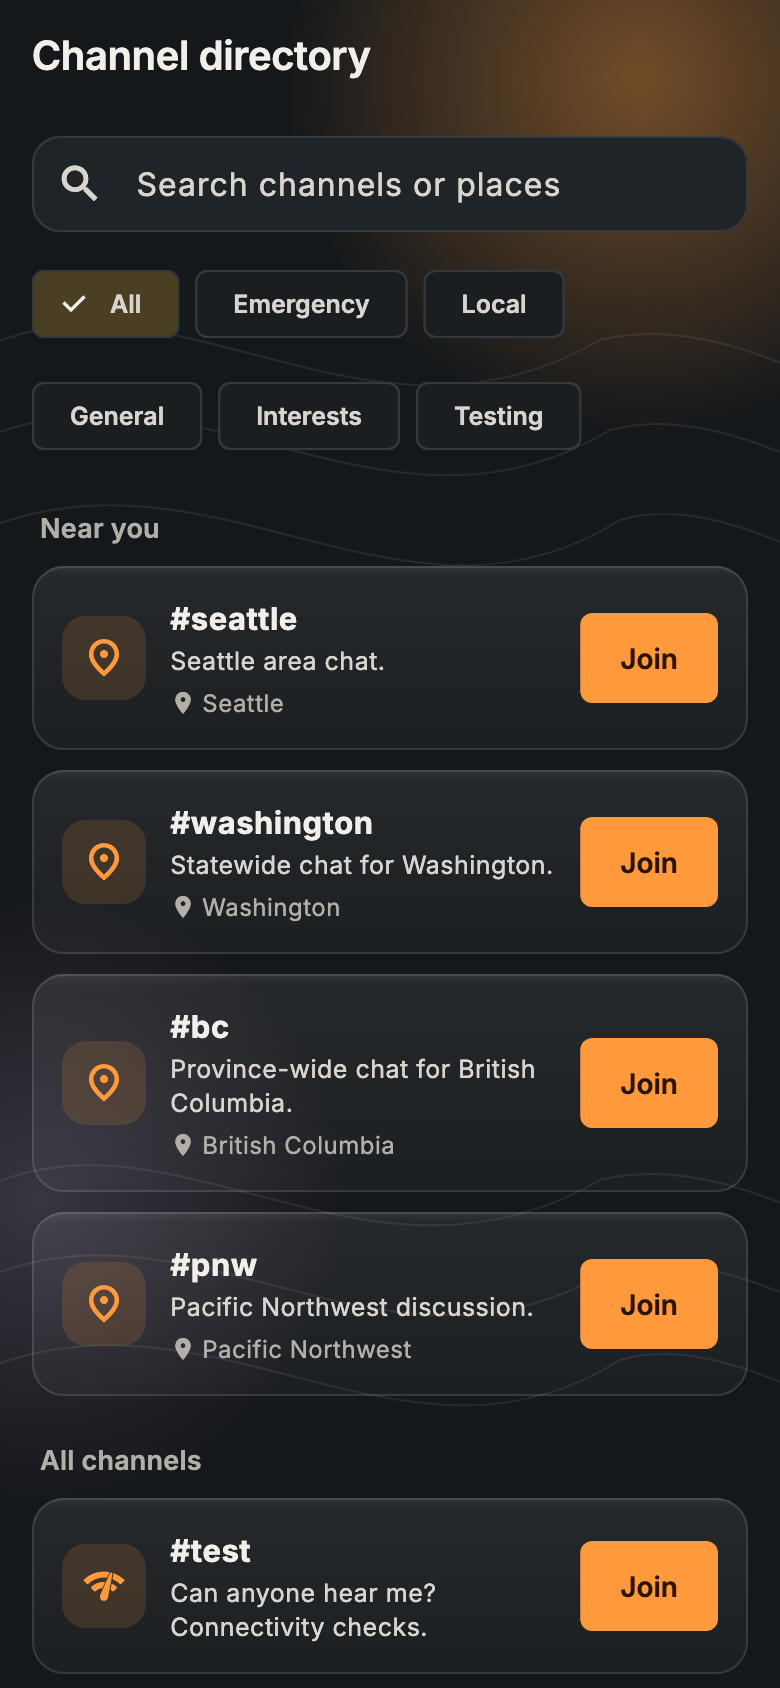
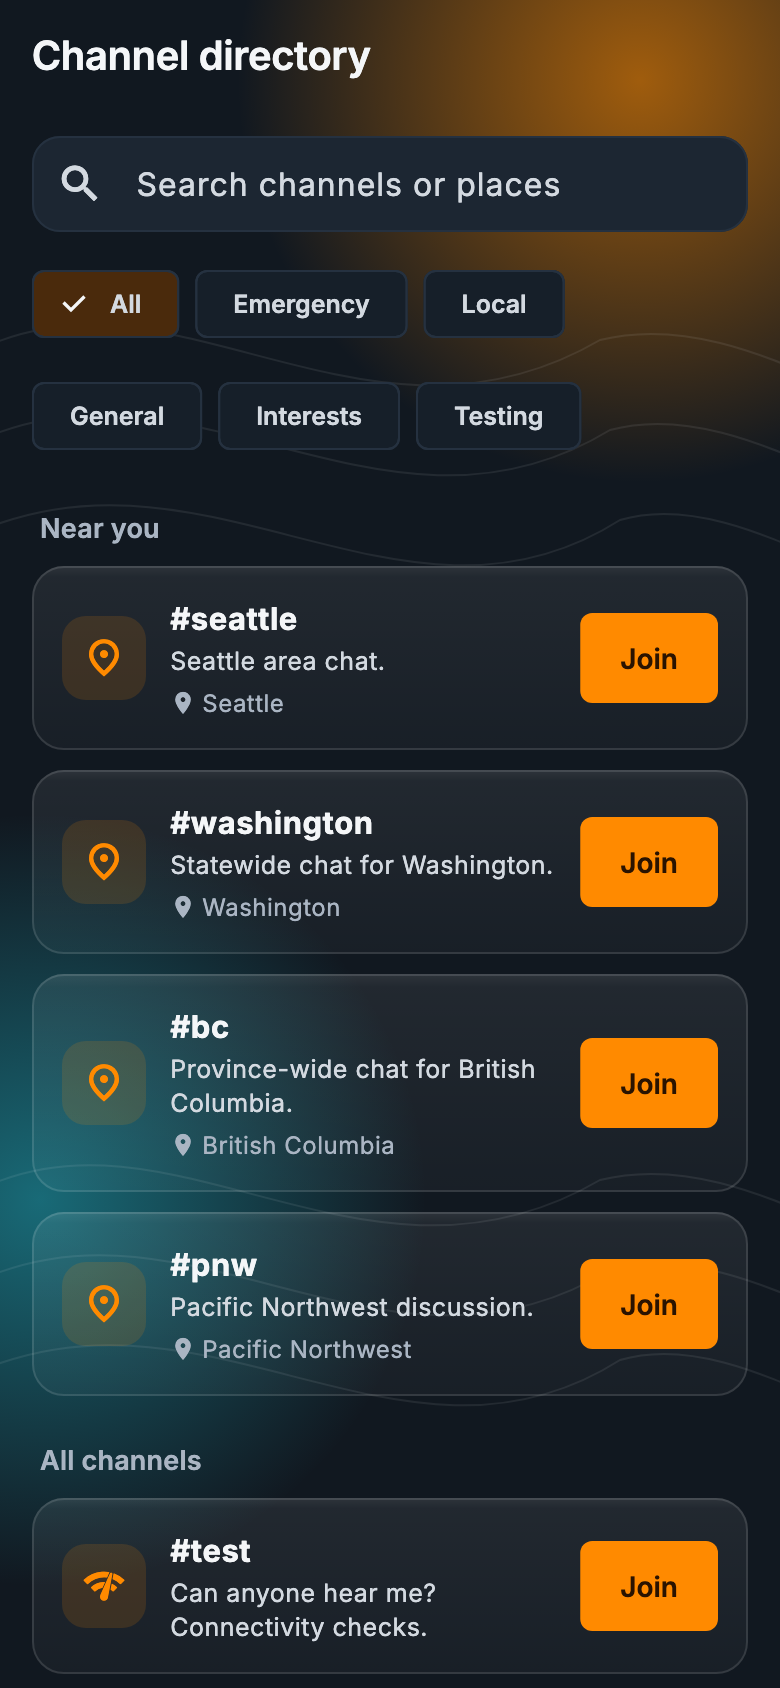
Bring the downloads page up to date (10.0.0 / 10.1.0-rc.5) (#13)
* Bring the downloads page up to date with 10.0.0 and 10.1.0-rc.5

Point the test build at rc.5, add features shipped since rc.3, list
the eight current themes and the Lite APK, and refresh the screenshots
from the app's preview test.

* Add phone captures of four newer screens

* Point the test build at 10.1.0-rc.6

---------

diff --git a/README.md b/README.md
@@ -14,7 +14,7 @@ This repository hosts NOTORYX Core builds for Android and Mac. Get the latest fr
 
 New since rc.47: **multiple radios**, **notifications for each channel** (all, mentions only or muted), an **airtime estimate** while you type, **KML and GeoJSON import**, a **firmware update guide**, and lower CPU use over USB on Mac. Not yet tested on real radios or phones.
 
-**Test build:** [10.1.0-rc.3](../../releases/tag/v10.1.0-rc.3) marks **failed sends in the Nodes list** with a fix one tap away, keeps the radio connected when you press **Back** on Home, learns better routes, and **resumes an SOS** after a restart. It includes everything in [10.1.0-rc.2](../../releases/tag/v10.1.0-rc.2) and [10.1.0-rc.1](../../releases/tag/v10.1.0-rc.1) (safer outbox, radio features in Diagnostics, offline map check, identity key backup and more). Untested on radios; 10.0.0 stays the one to use.
+**Test build: [10.1.0-rc.6](../../releases/tag/v10.1.0-rc.6)** (15 November 2026, build 107) lists each nearby repeater once in "Best repeaters near you" and on the routes screen. With rc.1 to rc.5, it adds a **compass that points to any node**, a **photo or color for any node**, your own **background** behind the glass panels (color, gradient, color blend or photo), and the **Fresnel zone** on line of sight. It also marks **failed sends in the Nodes list** with a fix one tap away, keeps chats open while a dropped radio link reconnects, puts every coverage tool in **Map + coverage**, **resumes an SOS** after a restart, and adds identity key backup, a map-as-a-list view for screen readers and a safer offline queue (from rc.1 to rc.5). The rc.4 features were checked on one phone with one radio; the build as a whole is not yet tested on radios, so 10.0.0 stays the one to rely on.
 
 **Report a problem:** [open an issue](../../issues).
 
@@ -36,7 +36,8 @@ NOTORYX Core turns your phone or Mac and a [MeshCore](https://meshcore.io/) radi
 - **It helps you find people.** A directory of public channels, channels heard on air that you haven't joined, and the #channels active online right now, each one tap to join.
 - **It reaches past the horizon.** The optional MQTT bridge shows MeshCore traffic from beyond radio range, clearly labeled **via MQTT** so it never pretends to be a radio repeat.
 - **It shows you where the mesh reaches.** Wardrive maps which repeaters hear you as you drive or hike, and telemetry badges put battery, temperature, humidity and pressure right on the map.
-- **It looks the part.** The Frosted ember look puts see-through glass over a warm glow. Five themes, including Autumn Frost, Red light to keep your night vision and a color-blind safe Okabe-Ito theme, all checked for readable contrast.
+- **It looks the part.** The Frosted ember look puts see-through glass over a warm glow, or over your own color, gradient or photo. Eight themes, including Night Ops to keep your night vision, a Seasonal theme and a color-blind safe Okabe-Ito theme, all checked for readable contrast.
+- **It runs more than one radio.** Stay connected to a handheld and a base station at once and switch between them.
 - **It speaks your language.** 18 languages.
 - **It runs your whole kit.** Repeaters, room servers, sensors, access control, a command line and Wi-Fi setup are all in one app.
 - **It's free and open source** (MIT), and built on the community [MeshCore Open](https://github.com/zjs81/meshcore-open) project.
@@ -52,6 +53,11 @@ NOTORYX Core turns your phone or Mac and a [MeshCore](https://meshcore.io/) radi
 - **SOS relay** (optional, off by default): when your radio hears an SOS straight from the sender and no repeater passes it on, NOTORYX sends it once more so it can reach a repeater the sender can't. Needs radio firmware v1.16 or newer, and is not yet field-tested on radios.
 - **Plan your trip:** choose up to six contacts. Trip briefs, a **Field Log** of everything sent and received, readiness checks and optional automations.
 - **Home:** radio battery, signal and node count at a glance, your radio's own **sensors** (voltage, temperatures, GPS, light), check-in, SOS and field tools.
+- **Trip readiness:** a **Ready** card before you leave says what's left to fix, such as offline maps or SOS contacts.
+- **SALUTE and 9-Line reports** from the SOS panel and the check-in card, with your position and the time filled in.
+- **Team tracking** on a private channel during a trip, **Day replay** of where everyone went, and **zone and off-trail alerts**.
+- **Checklists** that work offline, with timestamped records you can export.
+- **SOS on the lock screen** when app lock is on, and an SOS keeps going after the app restarts.
 - **Android home-screen widget:** radio status, battery and unread count, with one-tap Check in and SOS.
 
 ### Messaging
@@ -64,6 +70,11 @@ NOTORYX Core turns your phone or Mac and a [MeshCore](https://meshcore.io/) radi
 - **Delivery details:** long-press a message you sent to see why it did or didn't get through: a plain-words verdict over a timeline of attempts, route and confirmation, with Retry.
 - **Stop retrying** a direct message that's still being sent, and a note in a new chat that the other person has to add you as a contact before they can read and answer.
 - **Drafts** kept for each chat.
+- **Reply to a message** (shown as a quote), **@mentions** with suggestions, and **block** a sender on a channel.
+- **Reply from the notification**, **forward** a message, and **schedule** one up to 30 days ahead.
+- **Offline queue:** messages written while disconnected go out when your radio reconnects.
+- **Not delivered** on a node's row when your last message didn't get through, with a fix one tap away.
+- **Airtime estimate** while you type, and **per-channel notifications** (all, mentions only or muted).
 - **Share your position or a contact** from the message box. Received contacts can be added in one tap, tapping a `meshcore://` contact link in another app opens it in NOTORYX Core, and **Add contact from clipboard** accepts links, adverts (even wrapped across lines) and bare public keys.
 - **Discovered contacts:** add one with a tap, or long-press to pick several (or **Add all shown**) and add them together, up to the room left on your radio.
 - **Region tags:** a channel post scoped to a region shows it next to the time, for example **📍 ct**.
@@ -85,6 +96,13 @@ NOTORYX Core turns your phone or Mac and a [MeshCore](https://meshcore.io/) radi
 - **Antenna coverage:** see where an antenna at a chosen height could reach over the terrain.
 - **Line-of-sight checks** between two points.
 - **Coverage capture sessions** you can record, review and export.
+- **Line of sight with the Fresnel zone** shaded, so you can see when a path is clear of the ground but still too close to it.
+- **Waypoints and routes:** save places, import GPX, KML or GeoJSON, and see them on the map. **Offline trail routing and place search** from OpenStreetMap data you download.
+- **Compass to any node** ("Point me to it") from the map, the Nodes list and the path tools.
+- **Node journal**, a **Timeline** of messages, new nodes, signal and places, a **network** view of the path graph, **route view** with the signal on each link, and shareable **trace cards**.
+- **Mesh health** grade, route warnings, and alerts when a favorite repeater goes quiet or a new one appears.
+- Coordinates as decimal degrees, DMS, MGRS, UTM or Maidenhead.
+- **Map as a list** for screen readers, and **Favorites only** on the map.
 - **Field stats:** live mesh counts and contact activity.
 
 ### MQTT bridge (optional)
@@ -95,6 +113,7 @@ NOTORYX Core turns your phone or Mac and a [MeshCore](https://meshcore.io/) radi
 - Reconnects on its own when your network comes back.
 
 ### Your radios
+- **Several radios at once:** each keeps its own messages, queue and unread count, and each reconnects at launch.
 - Connect over **Bluetooth, USB or TCP/IP**. Turn on **Connect to my radio automatically** to reconnect to your last radio when the app opens. A dropped link reconnects on its own on every transport.
 - **Connections dashboard:** radio and MQTT status side by side, device and firmware details, and a clear prompt when Bluetooth is off.
 - Radio overview with battery, firmware and LoRa settings, live radio stats and a noise-floor chart.
@@ -108,19 +127,25 @@ NOTORYX Core turns your phone or Mac and a [MeshCore](https://meshcore.io/) radi
 - **Diagnostics:** every radio metric, channel, GPS fix and storage figure in one place; tap a value to copy it.
 - **Command line and Wi-Fi setup** for your own radio. With permission, you can also use a trusted contact's command line.
 - **Favorites back in range:** a notification when a favorite is heard again after a quiet spell (6 hours by default).
+- **Nearby repeater test**, **battery watch** (30 days of each repeater's voltage, with a trend and timed checks), **identity key backup**, a **firmware update guide** (the app never flashes firmware itself) and a list of which features your radio supports.
+- **Automation rules:** triggers like low battery, a time of day, an area, a node going quiet or a message arriving, combined with AND or OR, that post a notification, send a message or call an opt-in webhook.
 - **Field tools:** repeater ping (signal both ways), antenna hunt (clicks faster as a repeater gets louder), Repeater IDs, Region setup (US and Canada region trees) and a field guide.
 - Join a community by scanning its QR code.
 
-### Backups and everyday comfort
-- **Encrypted backup** of settings, contacts and keys, with optional chat history.
+### Privacy, backups and everyday comfort
+- **App lock** with fingerprint, face or screen lock, and optional **encrypted storage** for history, contacts, channel keys, waypoints and drafts.
+- **Encrypted backup and restore** of settings, contacts and keys, with your message history (merged on restore). A restore is all or nothing.
+- **Team setup:** share radio settings, channels, waypoints and routes by QR code or file, passphrase-encrypted.
+- **Community moderation** (off by default): report spam to human moderators.
 - **Battery saver**, adjustable refresh rate and app-icon shortcuts.
-- **Five themes:** Blaze (default), Autumn Frost (slate, pine and amber), Bubble Gum (rose and hot pink), Red light (keeps your night vision) and Okabe-Ito (color-blind safe, on black), all checked for readable contrast.
+- **Eight themes:** Blaze (default), Neon Anarchy, Tactical, Pink Overload, Bare Beauty, Okabe-Ito (color-blind safe), Night Ops (low light) and Seasonal, all meeting WCAG AA contrast. An optional second theme for dark mode, and your own **background** (color, gradient, color blend or photo).
+- **Node looks:** give any node a color or photo.
 - **Color-blind safe colors:** node types on the map and in lists (people, repeaters, rooms and sensors) use the [Okabe-Ito palette](https://jfly.uni-koeln.de/color/), whose colors stay distinct with the common forms of color blindness. The **Okabe-Ito** theme goes further: good, warning and bad signal are blue-green, yellow and vermillion instead of green and red.
 
   | Orange | Sky blue | Bluish green | Yellow | Blue | Vermillion | Reddish purple | Black |
   |---|---|---|---|---|---|---|---|
   | `#E69F00` | `#56B4E9` | `#009E73` | `#F0E442` | `#0072B2` | `#D55E00` | `#CC79A7` | `#000000` |
-- Available in **18 languages**. A few screens (parts of bot settings and the local mesh settings banner) are still in English only.
+- Available in **18 languages**.
 
 <p align="center">
   <img src="images/routes.png" width="190" alt="Route Intelligence with the best repeaters near you">
@@ -135,24 +160,38 @@ NOTORYX Core turns your phone or Mac and a [MeshCore](https://meshcore.io/) radi
 </p>
 
 <p align="center">
-  <img src="images/home.png" width="150" alt="Blaze theme">
-  <img src="images/home_autumn_frost.png" width="150" alt="Autumn Frost theme">
-  <img src="images/home_bubble_gum.png" width="150" alt="Bubble Gum theme">
-  <img src="images/home_red_light.png" width="150" alt="Red light theme">
-  <img src="images/home_okabe_ito.png" width="150" alt="Okabe-Ito color-blind safe theme">
+  <img src="images/background.png" width="190" alt="Background: theme glow, color, gradient, color blend or your own photo behind the glass">
+  <img src="images/theme_settings.png" width="190" alt="Theme settings with a different theme in dark mode">
+  <img src="images/checklist_run.png" width="190" alt="Before a trip checklist">
+  <img src="images/firmware_guide.png" width="190" alt="Guided firmware update">
 </p>
-<p align="center"><em>Blaze · Autumn Frost · Bubble Gum · Red light · Okabe-Ito</em></p>
+<p align="center"><em>Captured on a phone running 10.1.0-rc.5 with the Night Ops theme.</em></p>
 
-> NOTORYX Core is a pre-release. It's tested in automated tests and a mesh simulator but not yet on a wide range of phones and radios. It is not a replacement for an emergency service or a satellite messenger.
+<p align="center">
+  <img src="images/home.png" width="150" alt="Blaze theme">
+  <img src="images/home_neon_anarchy.png" width="150" alt="Neon Anarchy theme">
+  <img src="images/home_tactical.png" width="150" alt="Tactical theme">
+  <img src="images/home_pink_overload.png" width="150" alt="Pink Overload theme">
+</p>
+<p align="center">
+  <img src="images/home_bare_beauty.png" width="150" alt="Bare Beauty theme">
+  <img src="images/home_okabe_ito.png" width="150" alt="Okabe-Ito color-blind safe theme">
+  <img src="images/home_night_ops.png" width="150" alt="Night Ops low-light theme">
+  <img src="images/home_seasonal.png" width="150" alt="Seasonal theme in autumn">
+</p>
+<p align="center"><em>Blaze · Neon Anarchy · Tactical · Pink Overload · Bare Beauty · Okabe-Ito · Night Ops · Seasonal</em></p>
+
+> NOTORYX Core 10.0.0 is the first stable release. It's tested in automated tests and a mesh simulator but not yet on a wide range of phones and radios. It is not a replacement for an emergency service or a satellite messenger.
 
 ## Which file do I need?
 
 | Platform | File | Notes |
 |---|---|---|
 | Android (ARM64 phones) | `NOTORYX-Core-…-arm64-v8a.apk` | Signed with the NOTORYX Core release key |
+| Android, Lite | `NOTORYX-Core-Lite-…-arm64-v8a.apk` | Smaller, with no closed-source parts: no on-device translation, picture messages, camera QR scanner or phone GPS. Same key |
 | macOS (Intel and Apple silicon, macOS 14+) | `NOTORYX-Core-…-macOS-universal.zip` | Not notarized by Apple (see below) |
 
-Each release also has `SHA256SUMS-Android.txt` and `SHA256SUMS-macOS.txt`. To check a download: `shasum -a 256 <file>`.
+Each release also has `SHA256SUMS-Android.txt` and `SHA256SUMS-macOS.txt`, and from 10.1.0-rc.2 a `RELEASE-MANIFEST.json` tying each file to its source commit and test run. To check a download: `shasum -a 256 <file>`.
 
 ## Install on Android
 
